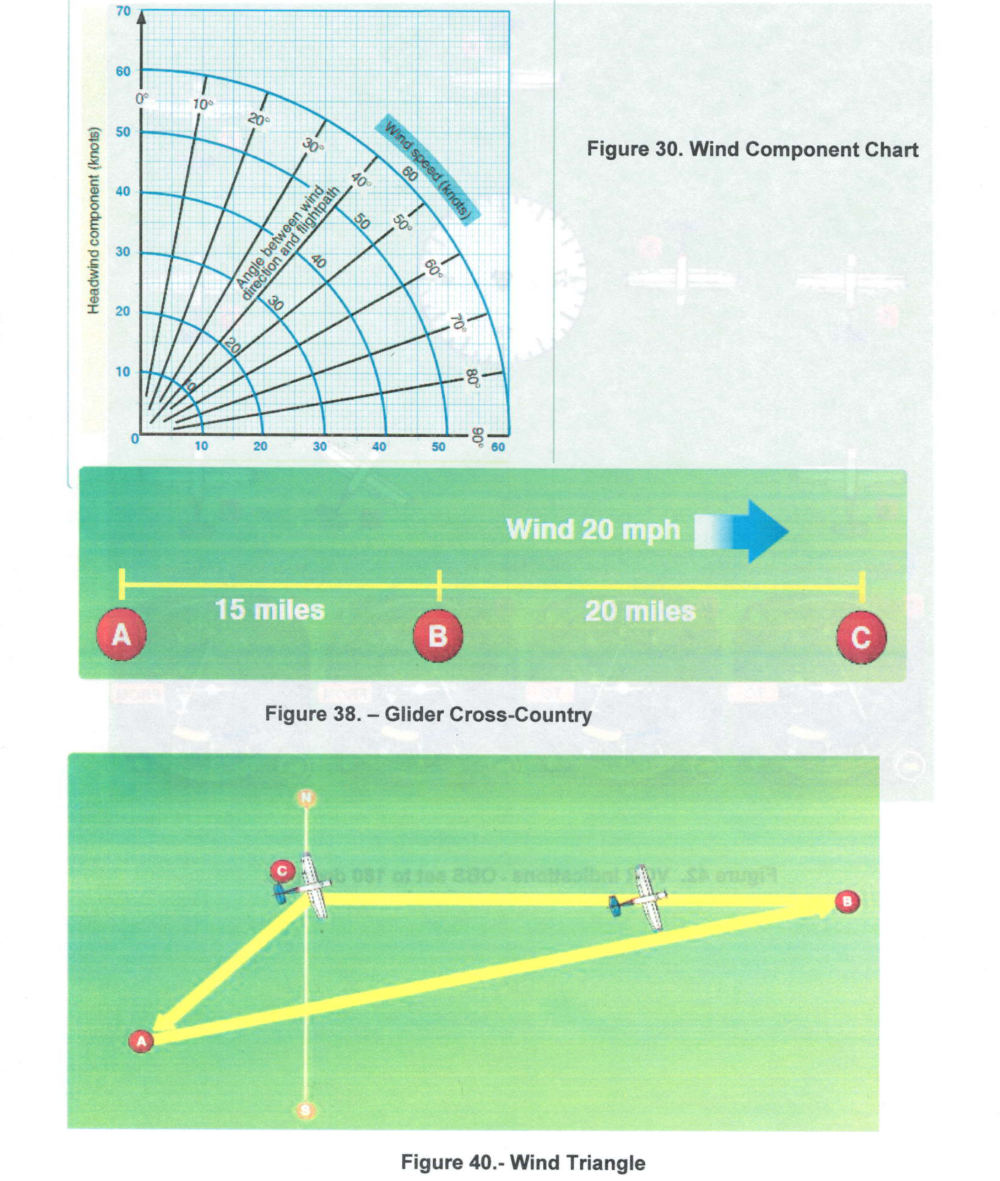
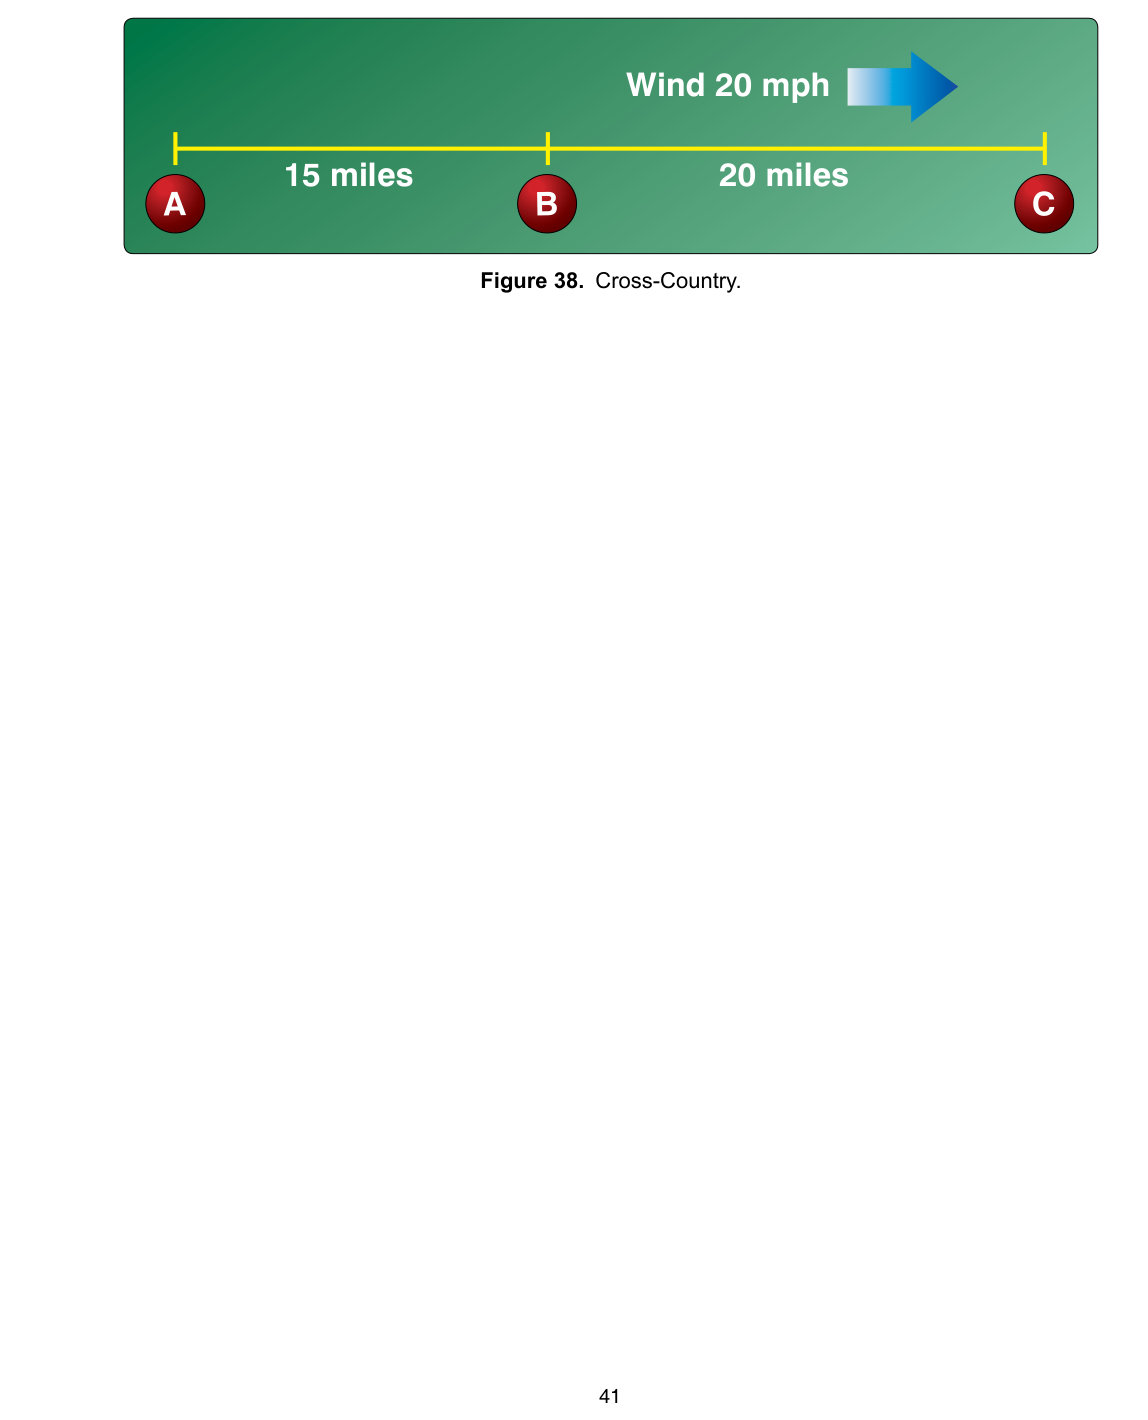
Replace CFI-G figures with official FAA testing-supplement images.

diff --git a/public/index.html b/public/index.html
@@ -1664,7 +1664,7 @@
             <div class="figure-image-wrap">
               <img src="${escapeHtml(figure.url)}" alt="${escapeHtml(title)}" loading="lazy" />
             </div>
-            <p class="figure-caption">From the GPGS CFI-G computer-testing supplement. Pinch/scroll to zoom on phone.</p>
+            <p class="figure-caption">From the FAA Computer Testing Supplement (Flight &amp; Ground Instructor). Pinch/scroll to zoom on phone.</p>
           </div>
         </div>
       `;

diff --git a/scripts/extract-cfi-g-figures.py b/scripts/extract-cfi-g-figures.py
@@ -1,5 +1,8 @@
 #!/usr/bin/env python3
-"""Extract GPGS CFI-G computer-testing figures from the scanned bank PDF.
+"""Extract CFI-G testing figures from the official FAA AKTS PDF.
+
+Default source:
+  https://www.faa.gov/sites/faa.gov/files/training_testing/testing/supplements/flight_ground_instructor_akts.pdf
 
 Writes:
   public/figures/cfi-g/figure-NN.jpg
@@ -19,144 +22,84 @@ except ImportError as exc:  # pragma: no cover
     raise SystemExit("pymupdf required: pip install pymupdf") from exc
 
 ROOT = Path(__file__).resolve().parents[1]
-DEFAULT_PDF = Path(r"C:\Users\ronwa\OneDrive\Documents\2026_10_13\IMG_0001.pdf")
+DEFAULT_PDF = ROOT / "content" / "faa-supplements" / "flight_ground_instructor_akts.pdf"
 OUT_DIR = ROOT / "public" / "figures" / "cfi-g"
 IMPORT_JSON = ROOT / "content" / "cfi-g-import" / "cfi-g-import.json"
 CARD_FIGURES_JSON = ROOT / "content" / "card-figures.json"
 
-# Pages in the GPGS scan that hold the computer-testing supplement figures.
-FIGURE_PAGE_INDEXES = range(26, 35)  # 1-based pages 27–35
+FAA_SOURCE_URL = (
+    "https://www.faa.gov/sites/faa.gov/files/training_testing/testing/"
+    "supplements/flight_ground_instructor_akts.pdf"
+)
 
-# OCR often fails on sectional pages; force whole-page crops.
-PAGE_FORCE_FIGURE = {
-    33: 44,  # 1-based page -> figure number
-    34: 45,
-    35: 46,
-}
-
-FIGURE_TITLES = {
-    3: "Aviation Routine Weather Reports (METAR)",
-    8: "Surface Analysis Chart Symbols",
-    18: "Stall speed vs. Load factor chart",
-    19: "Angle of Attack vs. Lift chart",
-    20: "Drag Chart",
-    21: "Aspect Ratio",
-    24: "Density Altitude Chart",
-    30: "Wind Component Chart",
-    38: "Glider Cross-Country",
-    40: "Wind Triangle",
-    42: "VOR Indicators — OBS set to 180°",
-    44: "Sectional Chart Excerpt",
-    45: "Sectional Chart Excerpt",
-    46: "Sectional Chart Excerpt",
-    47: "Class C Airspace Diagram",
-    54: "Traffic Pattern Indicator",
-}
+# Figures referenced by the imported CFI-G bank (plus common neighbors on those pages).
+NEEDED_FIGURES = {3, 8, 18, 19, 20, 21, 24, 30, 38, 40, 42, 44, 45, 46, 47, 54}
 
 REFER_RE = re.compile(
     r"\(\s*Refer to\s+(?:Fig(?:ure|ue)?|Pigure)\s+(\d+)\s*\.?\)",
     re.I,
 )
-
-
-def find_figure_captions(page: pymupdf.Page) -> list[tuple[int, pymupdf.Rect, str]]:
-    """Return (figure_number, caption_rect, raw_label) sorted top-to-bottom."""
-    text_dict = page.get_text("dict")
-    found: list[tuple[int, pymupdf.Rect, str]] = []
-    for block in text_dict.get("blocks", []):
-        for line in block.get("lines", []):
-            line_text = "".join(span.get("text", "") for span in line.get("spans", [])).strip()
-            if not line_text:
-                continue
-            m = re.match(
-                r"(?i)^\s*(?:Figure|FIGURE|Figue|Flgure|Fig\.?)\s*[,\.]?\s*(\d+)\b(.*)$",
-                line_text,
-            )
-            if not m:
-                continue
-            num = int(m.group(1))
-            xs = []
-            ys = []
-            for span in line.get("spans", []):
-                bbox = span.get("bbox") or [0, 0, 0, 0]
-                xs.extend([bbox[0], bbox[2]])
-                ys.extend([bbox[1], bbox[3]])
-            if not xs:
-                continue
-            rect = pymupdf.Rect(min(xs), min(ys), max(xs), max(ys))
-            found.append((num, rect, line_text))
-
-    # Deduplicate by figure number (keep uppermost caption).
-    by_num: dict[int, tuple[int, pymupdf.Rect, str]] = {}
-    for item in sorted(found, key=lambda x: x[1].y0):
-        if item[0] not in by_num:
-            by_num[item[0]] = item
-    return sorted(by_num.values(), key=lambda x: x[1].y0)
+FIGURE_LABEL_RE = re.compile(
+    r"(?im)^\s*Figure\s+(\d+)\.\s*(.+?)\s*$"
+)
 
 
 def page_content_clip(page: pymupdf.Page) -> pymupdf.Rect:
-    """Full supplement page minus header/footer chrome (GPGS pages mix side-by-side figures)."""
     return pymupdf.Rect(
-        page.rect.x0 + 12,
-        58,
-        page.rect.x1 - 12,
-        page.rect.y1 - 40,
+        page.rect.x0 + 10,
+        36,
+        page.rect.x1 - 10,
+        page.rect.y1 - 28,
     )
 
 
-def render_clip(page: pymupdf.Page, clip: pymupdf.Rect, out_path: Path, zoom: float = 1.7) -> None:
+def render_clip(page: pymupdf.Page, clip: pymupdf.Rect, out_path: Path, zoom: float = 2.0) -> None:
     mat = pymupdf.Matrix(zoom, zoom)
     pix = page.get_pixmap(matrix=mat, clip=clip, alpha=False)
     out_path.parent.mkdir(parents=True, exist_ok=True)
-    # JPEG keeps the repo/deploy size reasonable for scanned chart pages.
-    pix.save(str(out_path), jpg_quality=78)
+    pix.save(str(out_path), jpg_quality=85)
+
+
+def find_figure_pages(doc: pymupdf.Document) -> dict[int, tuple[int, str]]:
+    """Map figure number -> (1-based page, title). Prefer later pages (skip TOC)."""
+    found: dict[int, tuple[int, str]] = {}
+    for i in range(doc.page_count):
+        text = doc.load_page(i).get_text("text")
+        for m in FIGURE_LABEL_RE.finditer(text):
+            num = int(m.group(1))
+            title = re.sub(r"\s+", " ", m.group(2)).strip(" .")
+            # TOC pages list many figures; real figure pages overwrite with later hits.
+            found[num] = (i + 1, title)
+    return found
 
 
 def extract_figures(pdf_path: Path) -> dict[int, dict]:
     doc = pymupdf.open(pdf_path)
     OUT_DIR.mkdir(parents=True, exist_ok=True)
-    # Clear prior PNG/JPG extracts so we do not leave stale formats behind.
-    for old in OUT_DIR.glob('figure-*'):
+    for old in OUT_DIR.glob("figure-*"):
         old.unlink(missing_ok=True)
+
+    page_map = find_figure_pages(doc)
     catalog: dict[int, dict] = {}
 
-    for page_index in FIGURE_PAGE_INDEXES:
-        page = doc.load_page(page_index)
-        page_no = page_index + 1
-        captions = find_figure_captions(page)
-        nums = [c[0] for c in captions]
-        force_num = PAGE_FORCE_FIGURE.get(page_no)
-        if force_num and force_num not in nums:
-            nums.append(force_num)
+    missing = sorted(n for n in NEEDED_FIGURES if n not in page_map)
+    if missing:
+        raise SystemExit(f"FAA PDF missing figures: {missing}")
 
-        if not nums:
-            print(f"page {page_no}: no figures detected")
-            continue
-
-        clip = page_content_clip(page)
-        # One page image per figure number on that page (side-by-side layouts stay intact).
-        for num in sorted(set(nums)):
-            url_path = f"/figures/cfi-g/figure-{num:02d}.jpg"
-            out = OUT_DIR / f"figure-{num:02d}.jpg"
-            render_clip(page, clip, out)
-            label = next((c[2] for c in captions if c[0] == num), "")
-            title = FIGURE_TITLES.get(num)
-            if not title and label:
-                rest = re.sub(
-                    r"(?i)^\s*(?:Figure|FIGURE|Figue|Flgure|Fig\.?)\s*[,\.]?\s*\d+\s*[-–.]?\s*",
-                    "",
-                    label,
-                ).strip(" .-")
-                title = rest or f"Figure {num}"
-            if not title:
-                title = f"Figure {num}"
-            catalog[num] = {
-                "number": num,
-                "title": title,
-                "url": url_path,
-                "source_page": page_no,
-            }
-            print(f"page {page_no}: Figure {num} -> {out.name}")
+    for num in sorted(NEEDED_FIGURES):
+        page_no, title = page_map[num]
+        page = doc.load_page(page_no - 1)
+        out = OUT_DIR / f"figure-{num:02d}.jpg"
+        render_clip(page, page_content_clip(page), out)
+        catalog[num] = {
+            "number": num,
+            "title": title or f"Figure {num}",
+            "url": f"/figures/cfi-g/figure-{num:02d}.jpg",
+            "source_page": page_no,
+            "source": "FAA Computer Testing Supplement — Flight and Ground Instructor",
+            "source_url": FAA_SOURCE_URL,
+        }
+        print(f"Figure {num}: page {page_no} -> {out.name} — {title}")
 
     return catalog
 
@@ -191,12 +134,20 @@ def build_card_figure_map(catalog: dict[int, dict]) -> list[dict]:
 def main() -> None:
     pdf = Path(sys.argv[1]) if len(sys.argv) > 1 else DEFAULT_PDF
     if not pdf.exists():
-        raise SystemExit(f"PDF not found: {pdf}")
-    print(f"Extracting figures from {pdf}")
+        raise SystemExit(
+            f"PDF not found: {pdf}\n"
+            f"Download: {FAA_SOURCE_URL}\n"
+            f"Save as: {DEFAULT_PDF}"
+        )
+    print(f"Extracting FAA figures from {pdf}")
     catalog = extract_figures(pdf)
     rows = build_card_figure_map(catalog)
     payload = {
-        "note": "GPGS CFI-G computer-testing supplement figures linked from bank stems. Apply on seed.",
+        "note": (
+            "Official FAA Computer Testing Supplement figures for Flight/Ground Instructor. "
+            "Linked from CFI-G bank stems that say (Refer to Figure N.). Apply on seed."
+        ),
+        "source_url": FAA_SOURCE_URL,
         "figures": sorted(catalog.values(), key=lambda f: f["number"]),
         "cards": rows,
     }
